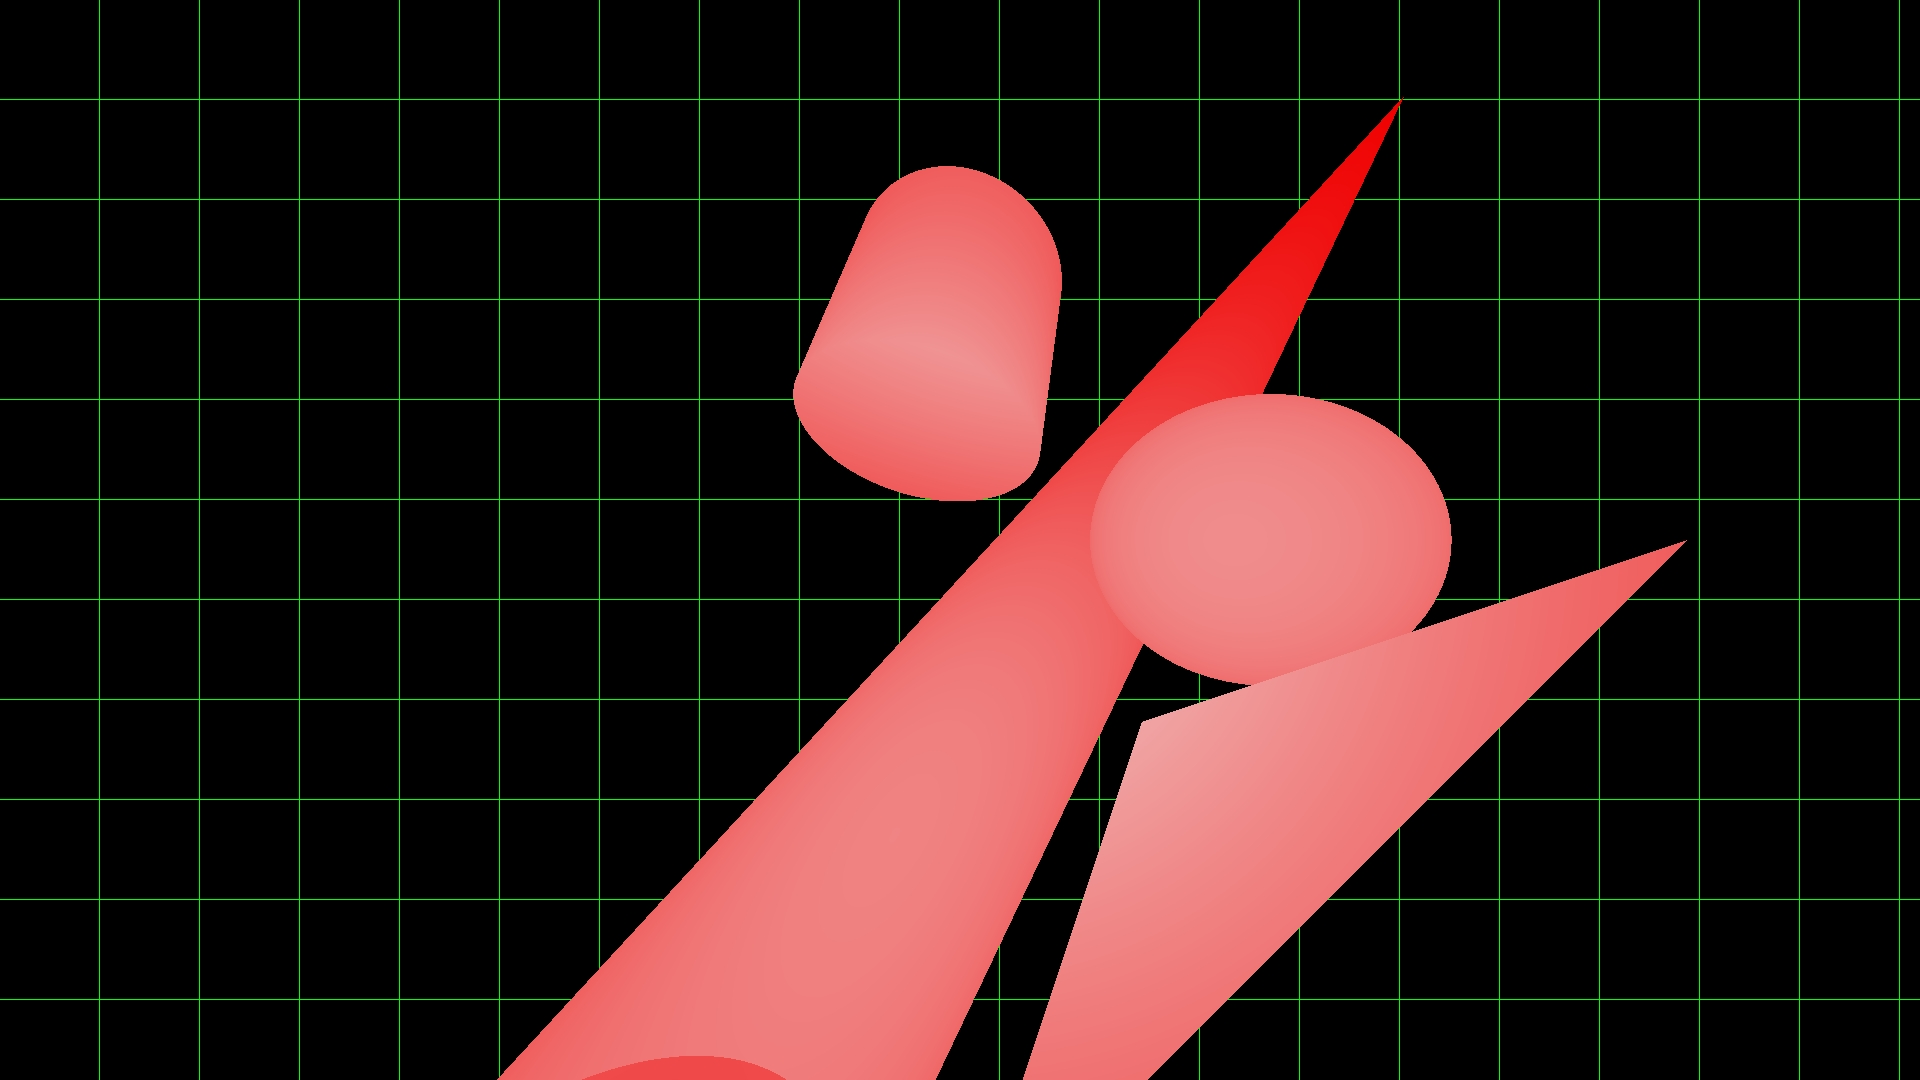
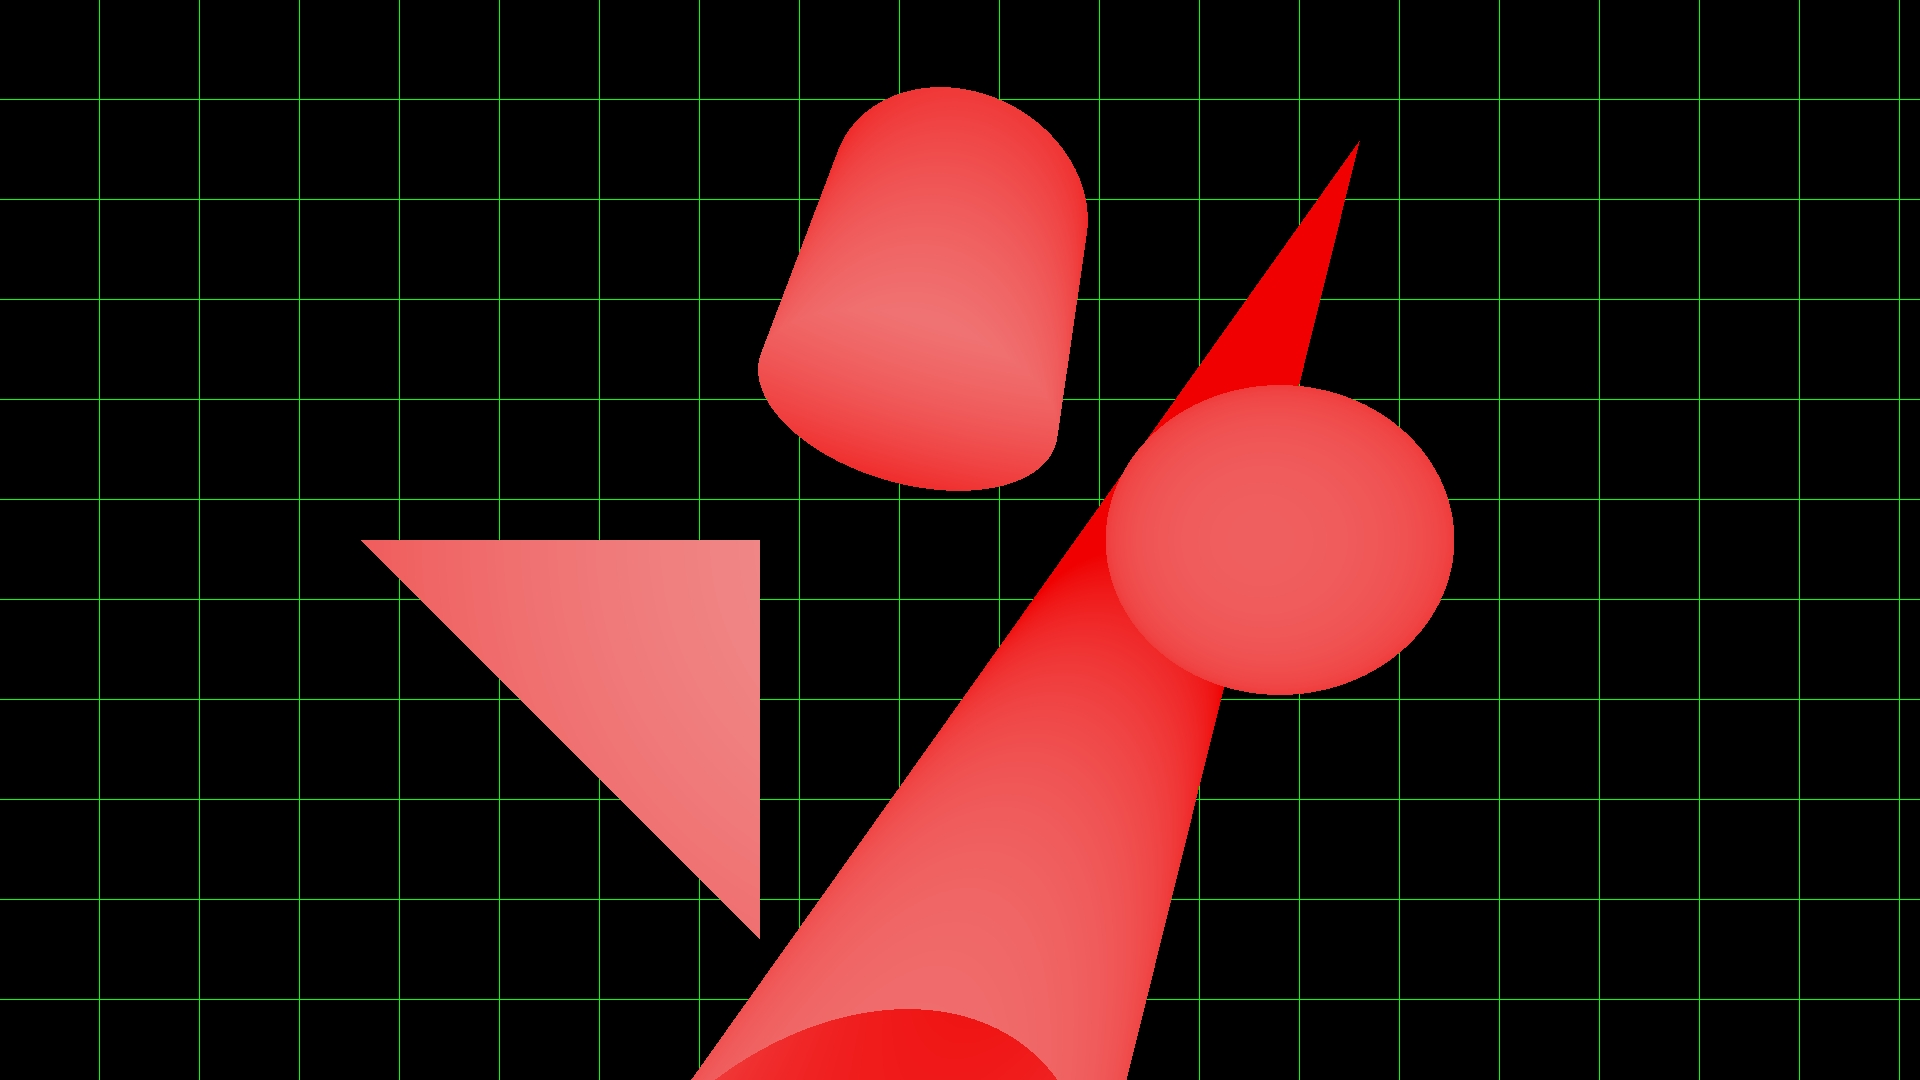
add version to XML loader

Changed region(s): [[0.1875, 0.0611, 0.875, 1.0], [0.7188, 0.0917, 0.75, 0.1222]]

diff --git a/src/com/miniproject/Main.java b/src/com/miniproject/Main.java
@@ -23,19 +23,30 @@ public class Main {
     public static void main(String[] args) {
         ImageWriter image = new ImageWriter("Img_0001",width,height,width,height);
         Camera cam = new Camera(startP,new Vector(0,1,0),new Vector(0,0,-1));
-        Geometries geo = new Geometries(new Tube(54.96,new Ray(new Point3D(0,-100,-200),new Vector(1,1,-0.9))));
-        geo.add(new Cylinder(54.96,new Ray(new Point3D(-10,90,-200),new Vector(0.2,1,-0.4)),100));
-        geo.add(new Sphere(60,new Point3D(120,0,-175)));
-        geo.add(new Triangle(new Point3D(50,-50,-110),new Point3D(200,0,-110),new Point3D(0,-200,-110)));
+        Geometries geo = new Geometries(new Tube(54.96,new Ray(new Point3D(0,-150,-200),new Vector(1,1,-1.5))));
+        geo.add(new Cylinder(54.96,new Ray(new Point3D(-10,90,-240),new Vector(0.2,1,-0.4)),100));
+        geo.add(new Sphere(60,new Point3D(120,0,-240)));
+        geo.add(new Triangle(new Point3D(-50,0,-150),new Point3D(-150,0,-150),new Point3D(-50,-100,-150)));
 
+        double b=0,s=0;
         for(int x = 0;x<width;x++){
             for(int y=0;y<height;y++){
-                Ray ray = cam.constructRayThroughPixel(width,height,x,y,100,width-width*zoom,height-height*zoom);
+                Ray ray = cam.constructRayThroughPixel(width,height,x,y,150,width-width*zoom,height-height*zoom);
                 if(geo.findIntersections(ray).size()!=0) {
                     double dis = closes(geo.findIntersections(ray),startP).distance(startP);
-                    int c = (int) (255*30/dis*2.8);
-                    if(c<0||c>255)
-                       c=0;
+                    //int c = (int)( (dis/255));
+                  //  int c = (int) (255*30/dis*4.5);
+                    dis/=1.3;
+                    if(dis>b)
+                        b=dis;
+                    if(dis<s)
+                        s=dis;
+                    if(dis>255)
+                       dis=255;
+                    if(dis<0)
+                        dis=0;
+                    int c= (int) dis;
+                    c=255-c;
                     image.writePixel(x, y, 240,c,c);
                 }
                 else if(isGrid(x,y,100,100))

diff --git a/src/renderer/SAXHandler.java b/src/renderer/SAXHandler.java
@@ -21,6 +21,7 @@ public class SAXHandler extends DefaultHandler {
     //variables
     Scene _scene = null;
     ImageWriter _imageWriter =null;
+    String version=null;
 
     //Triggered when the start of tag is found.
     @Override
@@ -31,6 +32,7 @@ public class SAXHandler extends DefaultHandler {
             //Create new scene
             case "scene": {
                 _scene = new Scene(attributes.getValue("name"));
+                version = attributes.getValue("version");
                 String color = attributes.getValue("background-color");
                 double[] colors = parse3Numbers(color);
                 _scene.setBackground(new Color(colors));

diff --git a/src/renderer/loadScene.java b/src/renderer/loadScene.java
@@ -34,6 +34,8 @@ public class loadScene {
         InputStream fileReader = new FileInputStream(xmlFile);
         parser.parse(fileReader, handler);
 
+        if(!handler.version.equals("1.0"))
+            throw new IllegalArgumentException("Wrong xml version");
         return new Render(handler._imageWriter, handler._scene);
     }
 }
